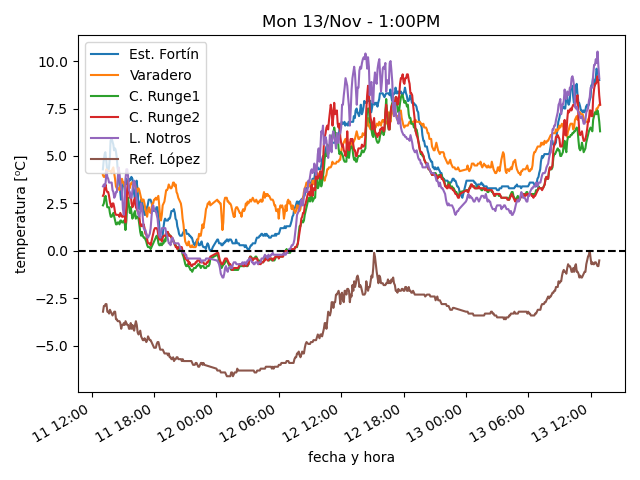
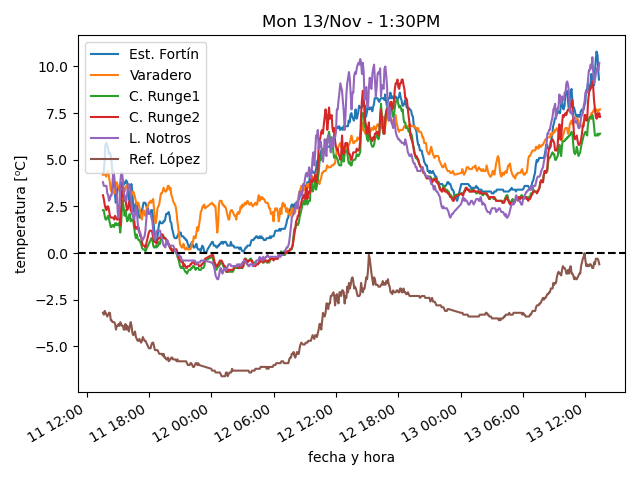
actualiza datos

diff --git a/estaciones/estacion1.html b/estaciones/estacion1.html
@@ -18,32 +18,32 @@
     </tr>
     <tr>
      <td class="stats_data">
-      12:49PM
+      1:18PM
      </td>
     </tr>
     <tr>
      <td class="stats_data">
-      9.0⁰C
+      9.3⁰C
      </td>
     </tr>
     <tr>
      <td class="stats_data">
-      0.8⁰C
+      1.1⁰C
      </td>
     </tr>
     <tr>
      <td class="stats_data">
-      56.3%
+      56.5%
      </td>
     </tr>
     <tr>
      <td class="stats_data">
-      1013.88hPa
+      1013.55hPa
      </td>
     </tr>
     <tr>
      <td class="stats_data">
-      26.9/43.5 km/hr W
+      19.5/40.2 km/hr NW
      </td>
     </tr>
     <tr>
@@ -53,12 +53,12 @@
     </tr>
     <tr>
      <td class="stats_data">
-      6.6
+      5.4
      </td>
     </tr>
     <tr>
      <td class="stats_data">
-      995.0 W/m²
+      663.0 W/m²
      </td>
     </tr>
    </tbody>

diff --git a/estaciones/estacion3.html b/estaciones/estacion3.html
@@ -18,22 +18,22 @@
     </tr>
     <tr>
      <td class="stats_data">
-      12:54PM
+      1:24PM
      </td>
     </tr>
     <tr>
      <td class="stats_data">
-      6.3⁰C
+      6.4⁰C
      </td>
     </tr>
     <tr>
      <td class="stats_data">
-      2.7⁰C
+      2.8⁰C
      </td>
     </tr>
     <tr>
      <td class="stats_data">
-      77.8%
+      77.3%
      </td>
     </tr>
     <tr>
@@ -43,7 +43,7 @@
     </tr>
     <tr>
      <td class="stats_data">
-      19.0/26.8 km/hr NW
+      14.0/21.4 km/hr NW
      </td>
     </tr>
     <tr>
@@ -53,12 +53,12 @@
     </tr>
     <tr>
      <td class="stats_data">
-      8.0
+      4.0
      </td>
     </tr>
     <tr>
      <td class="stats_data">
-      756.5 W/m²
+      375.2 W/m²
      </td>
     </tr>
    </tbody>

diff --git a/estaciones/estacion4.html b/estaciones/estacion4.html
@@ -18,22 +18,22 @@
     </tr>
     <tr>
      <td class="stats_data">
-      12:54PM
+      1:24PM
      </td>
     </tr>
     <tr>
      <td class="stats_data">
-      7.7⁰C
+      7.3⁰C
      </td>
     </tr>
     <tr>
      <td class="stats_data">
-      2.4⁰C
+      2.3⁰C
      </td>
     </tr>
     <tr>
      <td class="stats_data">
-      69.4%
+      70.5%
      </td>
     </tr>
     <tr>
@@ -43,7 +43,7 @@
     </tr>
     <tr>
      <td class="stats_data">
-      6.5/10.0 km/hr NW
+      6.6/10.2 km/hr SW
      </td>
     </tr>
     <tr>
@@ -53,12 +53,12 @@
     </tr>
     <tr>
      <td class="stats_data">
-      7.0
+      3.0
      </td>
     </tr>
     <tr>
      <td class="stats_data">
-      759.4 W/m²
+      339.5 W/m²
      </td>
     </tr>
    </tbody>

diff --git a/estaciones/estacion6.html b/estaciones/estacion6.html
@@ -18,32 +18,32 @@
     </tr>
     <tr>
      <td class="stats_data">
-      12:50PM
+      1:20PM
      </td>
     </tr>
     <tr>
      <td class="stats_data">
-      -0.5⁰C
+      -0.6⁰C
      </td>
     </tr>
     <tr>
      <td class="stats_data">
-      -1.8⁰C
+      -1.4⁰C
      </td>
     </tr>
     <tr>
      <td class="stats_data">
-      91.0%
+      94.0%
      </td>
     </tr>
     <tr>
      <td class="stats_data">
-      1017.0hPa
+      1016.8hPa
      </td>
     </tr>
     <tr>
      <td class="stats_data">
-      11.3/24.1 km/hr NE
+      9.7/20.9 km/hr NE
      </td>
     </tr>
     <tr>
@@ -58,7 +58,7 @@
     </tr>
     <tr>
      <td class="stats_data">
-      900.0 W/m²
+      902.0 W/m²
      </td>
     </tr>
    </tbody>

diff --git a/estaciones/estacion2.html b/estaciones/estacion2.html
@@ -18,7 +18,7 @@
     </tr>
     <tr>
      <td class="stats_data">
-      12:54PM
+      1:24PM
      </td>
     </tr>
     <tr>
@@ -28,12 +28,12 @@
     </tr>
     <tr>
      <td class="stats_data">
-      4.4⁰C
+      4.3⁰C
      </td>
     </tr>
     <tr>
      <td class="stats_data">
-      79.9%
+      78.8%
      </td>
     </tr>
     <tr>
@@ -43,7 +43,7 @@
     </tr>
     <tr>
      <td class="stats_data">
-      39.9/46.7 km/hr NW
+      34.4/41.1 km/hr NW
      </td>
     </tr>
     <tr>
@@ -53,12 +53,12 @@
     </tr>
     <tr>
      <td class="stats_data">
-      8.0
+      9.0
      </td>
     </tr>
     <tr>
      <td class="stats_data">
-      861.1 W/m²
+      954.3 W/m²
      </td>
     </tr>
    </tbody>

diff --git a/estaciones/estacion5.html b/estaciones/estacion5.html
@@ -18,27 +18,27 @@
     </tr>
     <tr>
      <td class="stats_data">
-      12:50PM
+      1:20PM
      </td>
     </tr>
     <tr>
      <td class="stats_data">
-      9.1⁰C
+      10.2⁰C
      </td>
     </tr>
     <tr>
      <td class="stats_data">
-      2.7⁰C
+      3.2⁰C
      </td>
     </tr>
     <tr>
      <td class="stats_data">
-      64.0%
+      62.0%
      </td>
     </tr>
     <tr>
      <td class="stats_data">
-      1014.6hPa
+      1013.99hPa
      </td>
     </tr>
     <tr>
